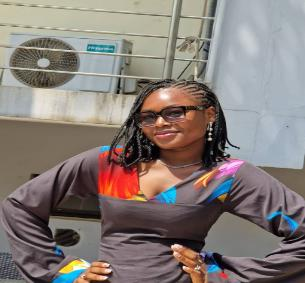
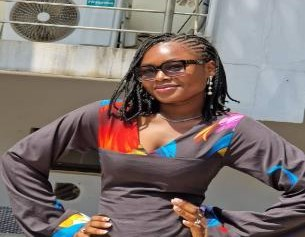
DONE 3

diff --git a/sop.html b/sop.html
@@ -19,15 +19,15 @@
                     <article class="member-card"><div class="member-photo"><img src="vicki.jpg" alt="VICTORIA AHOM" loading="lazy"></div><div class="member-info"><h3>VICTORIA AHOM</h3><span>Soprano</span></div></article>
                     <article class="member-card"><div class="member-photo"><img src="nopics.jpg" alt="VIVIAN NWACHUKWU" loading="lazy"></div><div class="member-info"><h3>VIVIAN NWACHUKWU</h3><span>Soprano</span></div></article>
                     <article class="member-card"><div class="member-photo"><img src="barbi.jpg" alt="GLORIA SEWUESE" loading="lazy"></div><div class="member-info"><h3>GLORIA JOHN</h3><span>Soprano</span></div></article>
-                    <article class="member-card"><div class="member-photo"><img src="nopics.jpg" alt="MARIAFRANCES" loading="lazy"></div><div class="member-info"><h3>MARIAFRANCES MOSES</h3><span>Soprano</span></div></article>
+                    <article class="member-card"><div class="member-photo"><img src="frances.jpg" alt="MARIAFRANCES" loading="lazy"></div><div class="member-info"><h3>MARIAFRANCES MOSES</h3><span>Soprano</span></div></article>
                     <article class="member-card"><div class="member-photo"><img src="nopics.jpg" alt="FATIMA" loading="lazy"></div><div class="member-info"><h3>FATIMA OKO</h3><span>Soprano</span></div></article>
 
 
 
                      <article class="member-card"><div class="member-photo"><img src="nopics.jpg" alt="NENFORT FELIX" loading="lazy"></div><div class="member-info"><h3>NENFORT FELIX</h3><span>Soprano</span></div></article>
-                    <article class="member-card"><div class="member-photo"><img src="nopics.jpg" alt="BERNICE OKO" loading="lazy"></div><div class="member-info"><h3>BERNICE OKO</h3><span>Soprano</span></div></article>
+                    <article class="member-card"><div class="member-photo"><img src="berenice solo.jpg" alt="BERNICE OKO" loading="lazy"></div><div class="member-info"><h3>BERNICE OKO</h3><span>Soprano</span></div></article>
                     <article class="member-card"><div class="member-photo"><img src="nopics.jpg" alt="GOODNESS OGUZI" loading="lazy"></div><div class="member-info"><h3>GOODNESS OGUZI</h3><span>Soprano</span></div></article>
-                    <article class="member-card"><div class="member-photo"><img src="nopics.jpg" alt="PATIENCE NYITYO" loading="lazy"></div><div class="member-info"><h3>PATIENCE NYITYO</h3><span>Soprano</span></div></article>
+                    <article class="member-card"><div class="member-photo"><img src="patience.jpg" alt="PATIENCE NYITYO" loading="lazy"></div><div class="member-info"><h3>PATIENCE NYITYO</h3><span>Soprano</span></div></article>
                     <article class="member-card"><div class="member-photo"><img src="nopics.jpg" alt="VIVIAN EKIGWE" loading="lazy"></div><div class="member-info"><h3>VIVIAN EKIGWE</h3><span>Soprano</span></div></article>
                     <article class="member-card"><div class="member-photo"><img src="nopics.jpg" alt="MAGRET ONOJA" loading="lazy"></div><div class="member-info"><h3>MAGRET ONOJA</h3><span>Soprano</span></div></article>
                     <article class="member-card"><div class="member-photo"><img src="nopics.jpg" alt="MAGRET NNELI" loading="lazy"></div><div class="member-info"><h3>MAGRET NNELI</h3><span>Soprano</span></div></article>
@@ -36,7 +36,7 @@
                     <article class="member-card"><div class="member-photo"><img src="nopics.jpg" alt="MERCY ASHWA" loading="lazy"></div><div class="member-info"><h3>MERCY ASHWA</h3><span>Soprano</span></div></article>
                     <article class="member-card"><div class="member-photo"><img src="nopics.jpg" alt="IDONGESIT SAMUEL" loading="lazy"></div><div class="member-info"><h3>IDONGESIT SAMUEL</h3><span>Soprano</span></div></article>
                     <article class="member-card"><div class="member-photo"><img src="nopics.jpg" alt="DORIS AGBER" loading="lazy"></div><div class="member-info"><h3>DORIS AGBER</h3><span>Soprano</span></div></article>
-                    <article class="member-card"><div class="member-photo"><img src="nopics.jpg" alt="ESTHER UKUEZE" loading="lazy"></div><div class="member-info"><h3>ESTHER UKWUEZE</h3><span>Soprano</span></div></article>
+                    <article class="member-card"><div class="member-photo"><img src="esther.jpg" alt="ESTHER UKUEZE" loading="lazy"></div><div class="member-info"><h3>ESTHER UKWUEZE</h3><span>Soprano</span></div></article>
                     <article class="member-card"><div class="member-photo"><img src="nopics.jpg" alt="ORPIN FLORENCE" loading="lazy"></div><div class="member-info"><h3>ORPIN FLORENCE</h3><span>Soprano</span></div></article>
                     <article class="member-card"><div class="member-photo"><img src="nopics.jpg" alt="VIVIAN OKERE" loading="lazy"></div><div class="member-info"><h3>VIVIAN OKERE</h3><span>Soprano</span></div></article>
 

diff --git a/tenor.html b/tenor.html
@@ -19,8 +19,8 @@
                     <article class="member-card"><div class="member-photo"><img src="mazi.jpg" alt="IBENECHE CHIMEZIE" loading="lazy"></div><div class="member-info"><h3>IBENECHE CHIMEZIE</h3><span>Tenor</span></div></article>
                     <article class="member-card"><div class="member-photo"><img src="dg.jpg" alt="MICHAEL AJEIBI" loading="lazy"></div><div class="member-info"><h3>MICHAEL AJEIBI</h3><span>Tenor</span></div></article>
                     <article class="member-card"><div class="member-photo"><img src="francis.jpg" alt="FRANCIS AJEIBI" loading="lazy"></div><div class="member-info"><h3>FRANCIS AJEIBI</h3><span>Tenor</span></div></article>
-                    <article class="member-card"><div class="member-photo"><img src="nopics.jpg" alt="VINCENT ONYEDIKACHI" loading="lazy"></div><div class="member-info"><h3>VINCENT ONYEDIKACHI</h3><span>Tenor</span></div></article>
-                    <article class="member-card"><div class="member-photo"><img src="nopics.jpg" alt="PATRICK ABUGU" loading="lazy"></div><div class="member-info"><h3>PATRICK ABUGU</h3><span>Tenor</span></div></article>
+                    <article class="member-card"><div class="member-photo"><img src="vincent.jpg" alt="VINCENT ONYEDIKACHI" loading="lazy"></div><div class="member-info"><h3>VINCENT ONYEDIKACHI</h3><span>Tenor</span></div></article>
+                    <article class="member-card"><div class="member-photo"><img src="pato.jpg" alt="PATRICK ABUGU" loading="lazy"></div><div class="member-info"><h3>PATRICK ABUGU</h3><span>Tenor</span></div></article>
                     
                     
                     <article class="member-card"><div class="member-photo"><img src="nopics.jpg" alt="ABRAHAM BEM-ALU" loading="lazy"></div><div class="member-info"><h3>ABRAHAM BEM-ALU</h3><span>Tenor</span></div></article>

diff --git a/alto.html b/alto.html
@@ -24,7 +24,7 @@
                 <article class="member-card"><div class="member-photo"><img src="clara.jpg" alt="PROMISE CLARA" loading="lazy"></div><div class="member-info"><h3>CLARA AMEH</h3><span>Alto</span></div></article>
 
                 <article class="member-card"><div class="member-photo"><img src="depuun.jpg" alt="GLORIA DEPUUN" loading="lazy"></div><div class="member-info"><h3>GLORIA DEPUUN</h3><span>Alto</span></div></article>
-                <article class="member-card"><div class="member-photo"><img src="nopics.jpg" alt="MARY OWHA" loading="lazy"></div><div class="member-info"><h3>MARY OWHA</h3><span>Alto</span></div></article>
+                <article class="member-card"><div class="member-photo"><img src="ohwa.jpg" alt="MARY OWHA" loading="lazy"></div><div class="member-info"><h3>MARY OWHA</h3><span>Alto</span></div></article>
                 <article class="member-card"><div class="member-photo"><img src="nopics.jpg" alt="FAITH SHEDRACH" loading="lazy"></div><div class="member-info"><h3>FAITH SHEDRACH</h3><span>Alto</span></div></article>
             </div>
         </div>

diff --git a/bass.html b/bass.html
@@ -80,6 +80,10 @@
                     <div class="member-photo"><img src="nopics.jpg" alt="Keetor" loading="lazy"></div>
                     <div class="member-info"><h3>EJIKE JOSEPH</h3><span>Bass</span></div>
                 </article>
+                <article class="member-card">
+                    <div class="member-photo"><img src="umune.jpg" alt="umune" loading="lazy"></div>
+                    <div class="member-info"><h3>DAVID UMUNE</h3><span>Bass</span></div>
+                </article>
                 <article class="member-card"><div class="member-photo"><img src="nopics.jpg" alt="MICHEAL UGWU" loading="lazy"></div><div class="member-info"><h3>MICHEAL UGWU</h3><span>Bass</span></div></article>
             </div>
         </div>
